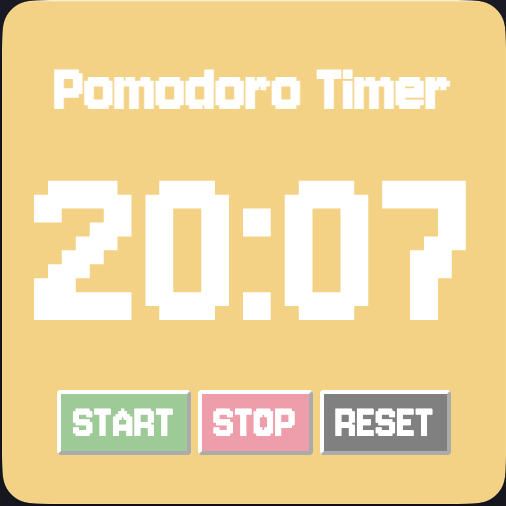
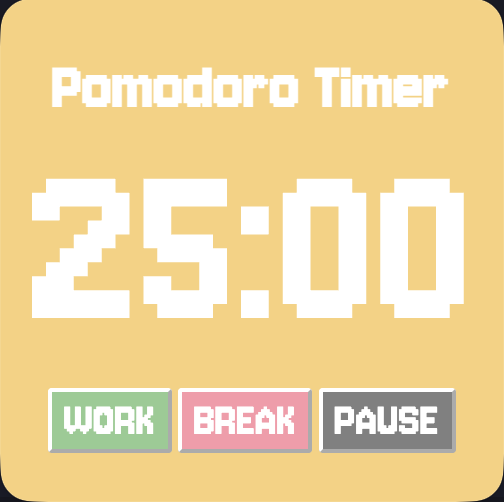
added break feature

diff --git a/script.js b/script.js
@@ -1,40 +1,82 @@
-console.log("script.js loaded!");
 const alarm = new Audio("alarm.mp3");
-const startEl = document.getElementById("start");
-const stopEl = document.getElementById("stop");
-const resetEl = document.getElementById("reset");
+
+const workBtn = document.getElementById("work");
+const breakBtn = document.getElementById("break");
+const pauseBtn = document.getElementById("pause");
 const timerEl = document.getElementById("timer");
 
+
+const State = {
+  IDLE: "idle",
+  WORK: "work",
+  BREAK: "break",
+};
+
 let intervalId = null;
-let timeLeft = 1500; //25mins
+let timeLeft = 25 * 60;
+let currentState = State.IDLE;
+let paused = false;
 
-function updateTimer(){
-    let minutes = Math.floor(timeLeft / 60);
-    let seconds = timeLeft % 60;
-    let formattedTime = `${minutes.toString().padStart(2, "0")}:${seconds.toString().padStart(2, "0")}`;
-    timerEl.innerHTML = formattedTime;
+function updateTimer() {
+  const minutes = Math.floor(timeLeft / 60);
+  const seconds = timeLeft % 60;
+  timerEl.textContent =
+    `${String(minutes).padStart(2, "0")}:${String(seconds).padStart(2, "0")}`;
 }
 
-function startTimer(){
-    if (intervalId !== null) return; // ★ 連打防止
-    interval = setInterval(() => {
-        timeLeft--;
-        updateTimer();
-        if (timeLeft === 0){
-            alarm.play();
-            alert("time's up");
-            resetTimer();
-        }
-    }, 1000);
-}
-function stopTimer(){
-    clearInterval(interval);
-}
-function resetTimer(){
-    clearInterval(interval);
-    timeLeft = 1500;
+function startTimer() {
+  if (intervalId !== null) return;
+
+  intervalId = setInterval(() => {
+    timeLeft--;
     updateTimer();
+
+    if (timeLeft <= 0) {
+      alarm.currentTime = 0;
+      alarm.play();
+      alert("time's up");
+      stopTimer();
+    }
+  }, 1000);
 }
-startEl.addEventListener("click", startTimer);
-stopEl.addEventListener("click", stopTimer);
-resetEl.addEventListener("click", resetTimer);
+
+function stopTimer() {
+  clearInterval(intervalId);
+  intervalId = null;
+}
+
+function startWork() {
+  stopTimer();
+  currentState = State.WORK;
+  timeLeft = 25 * 60;
+  updateTimer();
+  startTimer();
+}
+
+function startBreak() {
+  stopTimer();
+  currentState = State.BREAK;
+  timeLeft = 5 * 60;
+  updateTimer();
+  startTimer();
+}
+
+function togglePause() {
+  if (!intervalId && !paused) return;
+
+  if (!paused) { //止まってないなら止める
+    stopTimer();
+    paused = true;
+    pauseBtn.textContent = "Resume";
+  } else {
+    startTimer();
+    paused = false;
+    pauseBtn.textContent = "Pause";
+  }
+}
+
+workBtn.addEventListener("click", startWork);
+breakBtn.addEventListener("click", startBreak);
+pauseBtn.addEventListener("click", togglePause);
+
+updateTimer();

diff --git a/index.html b/index.html
@@ -14,9 +14,9 @@
       <h1 class="title">Pomodoro Timer</h1>
       <p class="timer" id="timer">25:00</p>
       <div class="button-wrapper">
-        <button id="start">start</button>
-        <button id="stop">stop</button>
-        <button id="reset">reset</button>
+        <button id="work">work</button>
+        <button id="break">break</button>
+        <button id="pause">pause</button>
       </div>
     </div>
 

diff --git a/styles.css b/styles.css
@@ -37,13 +37,13 @@ button{
     color: white;
 }
 
-#start{
+#work{
     background-color: rgb(144, 203, 144);
 }
-#stop{
+#break{
     background-color: rgb(252, 152, 169);
 }
-#reset{
+#pause{
     background-color: gray;
 }
 
